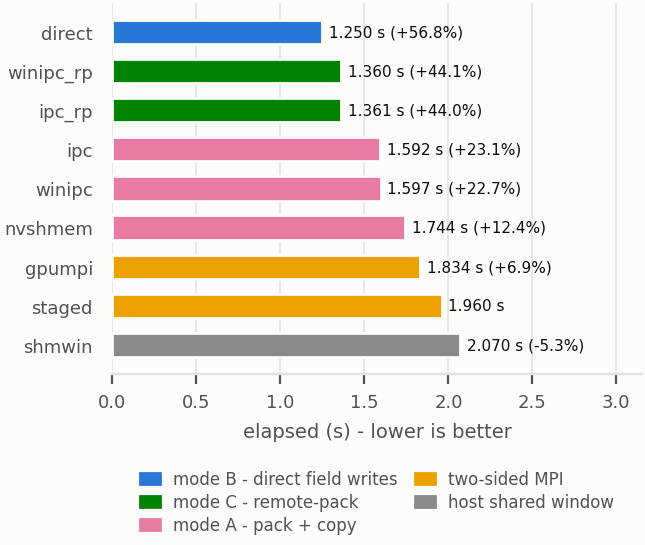
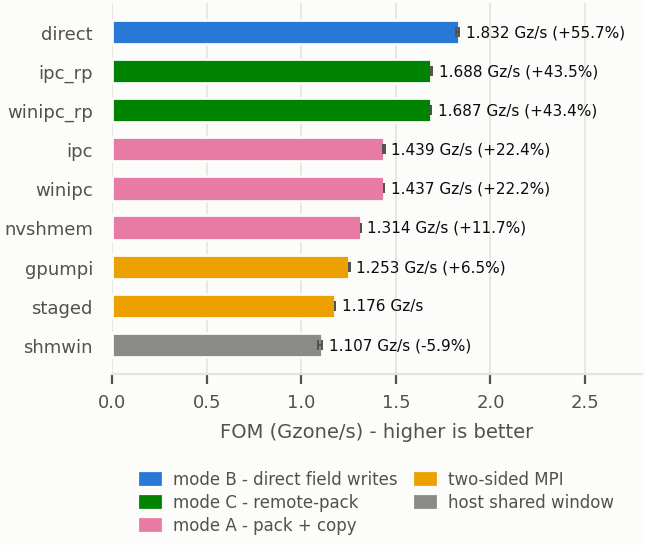
Fig 6: plot LULESH figure of merit instead of elapsed time
Advisor request: chart 1 (lulesh_variants_sxm) moves to the figure of merit --
the established LULESH metric, and time-neutral. Same runs, same data, only the
plotted quantity changes.

  * FOM in Gzone/s, sorted descending so "best" stays at the top (FOM inverts
    the ordering, so the sort key inverts too).
  * Axis label "FOM (Gzone/s) - higher is better".
  * A value label on every bar. Table VII is dropping its numeric columns, so
    this figure becomes the only place the nine-variant numbers appear.
  * min/max whiskers and median bars now on the FOM axis, from
    results/lulesh_variance.csv (jobs 60796-60800).

Chart 2 (lulesh_modes_sxm) stays on elapsed seconds as requested; its content
is unchanged (its PNG is byte-identical). Both axis labels keep explicit
"lower is better" / "higher is better" text, since the two adjacent figures now
have opposite polarity.

UNIT TRAP, worth knowing about: the CSV column named `fom_z_per_s` is NOT in
zones/s. Cross-checked against the header's own zone_cycles, 2292705000 /
1.25024 s = 1.8338e9 zone-cycles/s while the column reads 1833813.8 -- exactly
1000x off its name. So Gzone/s = column / 1e6. Dividing by 1e9, which the
column name invites, yields 0.0018 Gzone/s. The constant is named and its
derivation recorded so it is not "simplified" later.

CONSEQUENCE FOR SS V-F: the bars are medians over jobs 60796-60800, but the
CSV's gain_pct column is job 60150's single run. Chart 1 now recomputes its
[…]

diff --git a/plots/make_lulesh_plots.py b/plots/make_lulesh_plots.py
@@ -1,15 +1,29 @@
 #!/usr/bin/env python3
 """LULESH charts for the paper. Writes two single-column PDFs:
 
-    plots/lulesh_variants_sxm.pdf  all nine variants, ranked by elapsed
+    plots/lulesh_variants_sxm.pdf  all nine variants, ranked by FOM (Gzone/s)
     plots/lulesh_modes_sxm.pdf     the three send modes, handwritten vs interposed
 
+THE TWO CHARTS PLOT OPPOSITE POLARITIES, DELIBERATELY. Chart 1 is the figure
+of merit -- the established LULESH metric, and time-neutral -- so higher is
+better. Chart 2 stays on elapsed seconds because the matched-pair residual
+between ipc and winipc reads better in time than as a ratio of rates, so lower
+is better. Both axis labels state their direction explicitly; do not drop that
+text, it is the only thing stopping two adjacent figures from being read the
+same way round.
+
 VARIANCE (E1). If results/lulesh_variance.csv exists it is used to draw
-min/max whiskers on the matched pairs in chart 2, and the bar becomes the
-median of the repetitions rather than a single run. Build it with
-scripts/build_lulesh_variance_csv.py, which emits one row per (variant, job)
-with no pre-aggregation; only `variant` and `elapsed_s_hi` are read here, the
-rest are carried for provenance and for the paper's paired analysis.
+min/max whiskers on BOTH charts, and each bar becomes the median of the
+repetitions rather than a single run -- on the FOM axis for chart 1 and the
+elapsed axis for chart 2. Build it with scripts/build_lulesh_variance_csv.py,
+which emits one row per (variant, job) with no pre-aggregation; `variant`,
+`elapsed_s_hi` and `fom_z_per_s` are read here, the rest are carried for
+provenance and for the paper's paired analysis.
+
+CAUTION: the bars are then medians over jobs 60796-60800, while the CSV's
+`gain_pct` column is job 60150's single run. Chart 1 therefore recomputes its
+percentages from the plotted values instead of reading gain_pct, so the labels
+always agree with the bars. The two differ by 0.3-1.0 percentage points.
 
 `rep` indexes the JOB SUBMISSION, not an in-process loop: run_lulesh_verify
 runs each variant once per job, so E1's five submissions give five independent
@@ -93,19 +107,26 @@ def load(path=CSV):
     for r in rd:
         out[r["variant"]] = {
             "elapsed": float(r["elapsed_s_hi"]),
+            "fom": float(r["fom_z_per_s"]) / FOM_PER_GZ,
             "gain": float(r["gain_pct"]) / 100.0,
             "mode": r["mode"],
         }
     return out
 
+
+# The CSV column is NAMED fom_z_per_s but is not in zones/s -- it is off by a
+# factor of 1000. Cross-checked against the header's own zone_cycles:
+#   zone_cycles 2292705000 / elapsed 1.25024 s = 1.8338e9 zone-cycles/s,
+#   while the column reads 1833813.8. Ratio exactly 1000.
+# So Gzone/s = column / 1e6, NOT column / 1e9 -- dividing by 1e9 would print
+# 0.0018 Gzone/s and look like a unit error rather than a value. Do not
+# "simplify" this constant without re-deriving it from zone_cycles.
+FOM_PER_GZ = 1.0e6
+
 DATA = load()
 missing = set(CATEGORY) - set(DATA)
 if missing:
     raise SystemExit(f"CSV is missing variants: {sorted(missing)}")
-
-# ascending elapsed == descending performance
-variants = [(k, CATEGORY[k], DATA[k]["elapsed"], DATA[k]["gain"])
-            for k in sorted(DATA, key=lambda k: DATA[k]["elapsed"])]
 
 MODE_COLOR = {"B": BLUE, "C": GREEN, "A": MAGENTA, "T": YELLOW, "W": GREY}
 MODE_LABEL = {
@@ -123,21 +144,33 @@ VAR_CSV = os.path.join(os.path.dirname(__file__), "..", "results",
 
 
 def load_variance(path=VAR_CSV):
-    """variant -> (median, min, max) over repetitions, or {} if unavailable."""
+    """variant -> {"elapsed": (med,min,max), "fom": (med,min,max)}, or {}.
+
+    Both metrics are carried because the two charts now plot different axes:
+    chart 1 is FOM (higher is better), chart 2 stays on elapsed seconds (lower
+    is better). Whiskers must be computed on whatever quantity is drawn --
+    min/max of elapsed are NOT the endpoints of min/max of FOM once rounded,
+    and reusing one for the other would draw whiskers that do not bracket
+    their own bar.
+    """
     if not os.path.exists(path):
         return {}
     reps = {}
     with open(path) as f:
         rows = [ln for ln in f if not ln.startswith("#") and ln.strip()]
     for r in csv.DictReader(rows):
-        reps.setdefault(r["variant"], []).append(float(r["elapsed_s_hi"]))
-    out = {}
-    for v, xs in reps.items():
-        xs.sort()
+        d = reps.setdefault(r["variant"], {"elapsed": [], "fom": []})
+        d["elapsed"].append(float(r["elapsed_s_hi"]))
+        d["fom"].append(float(r["fom_z_per_s"]) / FOM_PER_GZ)
+
+    def summarise(xs):
+        xs = sorted(xs)
         n = len(xs)
         med = xs[n // 2] if n % 2 else 0.5 * (xs[n // 2 - 1] + xs[n // 2])
-        out[v] = (med, xs[0], xs[-1])
-    return out
+        return (med, xs[0], xs[-1])
+
+    return {v: {k: summarise(xs) for k, xs in d.items()}
+            for v, d in reps.items()}
 
 
 VAR = load_variance()
@@ -148,22 +181,60 @@ else:
     print("variance: results/lulesh_variance.csv absent -- single-run values, "
           "no whiskers (rerun once E1 jobs 60796-60800 land)")
 
-# =============== chart 1: all nine variants ===============
+# =============== chart 1: all nine variants, figure of merit ===============
+# FOM rather than elapsed seconds: it is the established LULESH metric and it is
+# time-neutral. Same runs, same data -- only the quantity plotted changes.
+# Ordering is descending FOM so "best" stays at the top as it was under
+# ascending elapsed; FOM inverts the sense, so the sort key has to invert too.
+
+
+def fom_value(v):
+    """Median FOM over reps when variance data exists, else the single run."""
+    if v in VAR:
+        return VAR[v]["fom"][0]
+    return DATA[v]["fom"]
+
+
+def fom_err(v):
+    """[[lo],[hi]] whisker offsets from the plotted FOM, or None."""
+    if v not in VAR:
+        return None
+    med, lo, hi = VAR[v]["fom"]
+    return [[med - lo], [hi - med]]
+
+
+# Gains are recomputed from the PLOTTED values against the plotted staged bar,
+# not taken from the CSV's gain_pct. gain_pct is job 60150's single run, but the
+# bars are medians over jobs 60796-60800 whenever the variance CSV is present.
+# Reading one off the other would print a percentage the bars do not support.
+fom_order = sorted(DATA, key=lambda k: -fom_value(k))
+staged_fom = fom_value("staged")
+
+names  = [label(v) for v in fom_order][::-1]
+foms   = [fom_value(v) for v in fom_order][::-1]
+gains  = [fom_value(v) / staged_fom - 1.0 for v in fom_order][::-1]
+colors = [MODE_COLOR[CATEGORY[v]] for v in fom_order][::-1]
+errs   = [fom_err(v) for v in fom_order][::-1]
+
 fig, ax = plt.subplots(figsize=(COL_W, 3.0))
-names   = [label(v[0]) for v in variants][::-1]
-times   = [v[2] for v in variants][::-1]
-gains   = [v[3] for v in variants][::-1]
-colors  = [MODE_COLOR[v[1]] for v in variants][::-1]
-
-bars = ax.barh(names, times, height=0.62, color=colors,
+bars = ax.barh(names, foms, height=0.62, color=colors,
                edgecolor=SURFACE, linewidth=1.0)
-for bar, t, g in zip(bars, times, gains):
-    lab = f"{t:.3f} s" if g == 0.0 else f"{t:.3f} s ({g*100:+.1f}%)"
-    ax.text(bar.get_width() + 0.04, bar.get_y() + bar.get_height()/2, lab,
-            va="center", ha="left", fontsize=5.5, color=INK)
+EBAR1 = dict(ecolor=INK2, capsize=1.8, elinewidth=0.7, capthick=0.7)
+for i, e in enumerate(errs):
+    if e:
+        ax.errorbar(foms[i], i, xerr=e, fmt="none", **EBAR1)
 
-ax.set_xlabel("elapsed (s) - lower is better")
-ax.set_xlim(0, 3.15)
+# Value label on every bar. Table VII is dropping its numeric columns, so this
+# figure becomes the only place the nine-variant numbers appear -- a reader
+# checking the percentages quoted in the text has nowhere else to look.
+for i, (bar, f, g) in enumerate(zip(bars, foms, gains)):
+    lab = f"{f:.3f} Gz/s" if abs(g) < 1e-12 else f"{f:.3f} Gz/s ({g*100:+.1f}%)"
+    hi = errs[i][1][0] if errs[i] else 0.0
+    ax.text(bar.get_width() + hi + 0.035, bar.get_y() + bar.get_height()/2,
+            lab, va="center", ha="left", fontsize=5.5, color=INK)
+
+ax.set_xlabel("FOM (Gzone/s) - higher is better")
+ax.set_xlim(0, 2.80)
 ax.xaxis.grid(True, color=GRID, linewidth=0.6)
 ax.set_axisbelow(True)
 for side in ("top", "right", "left"):
@@ -190,17 +261,23 @@ WIN_V = ["mpiwrap", "mpiwrap_rp", None]
 
 
 def bar_value(v):
-    """Median over reps when variance data exists, else the single run."""
+    """Median elapsed over reps when variance data exists, else the single run.
+
+    Chart 2 deliberately stays on elapsed seconds: the matched-pair residual
+    between ipc/winipc reads better in time than as a ratio of rates. That
+    leaves the two adjacent LULESH figures with OPPOSITE polarity, which is why
+    both axis labels carry an explicit "lower is better" / "higher is better".
+    """
     if v in VAR:
-        return VAR[v][0]
+        return VAR[v]["elapsed"][0]
     return DATA[v]["elapsed"]
 
 
 def err(v):
-    """[[lo],[hi]] whisker offsets from the plotted value, or None."""
+    """[[lo],[hi]] whisker offsets from the plotted elapsed value, or None."""
     if v not in VAR:
         return None
-    med, lo, hi = VAR[v]
+    med, lo, hi = VAR[v]["elapsed"]
     return [[med - lo], [hi - med]]
 
 
